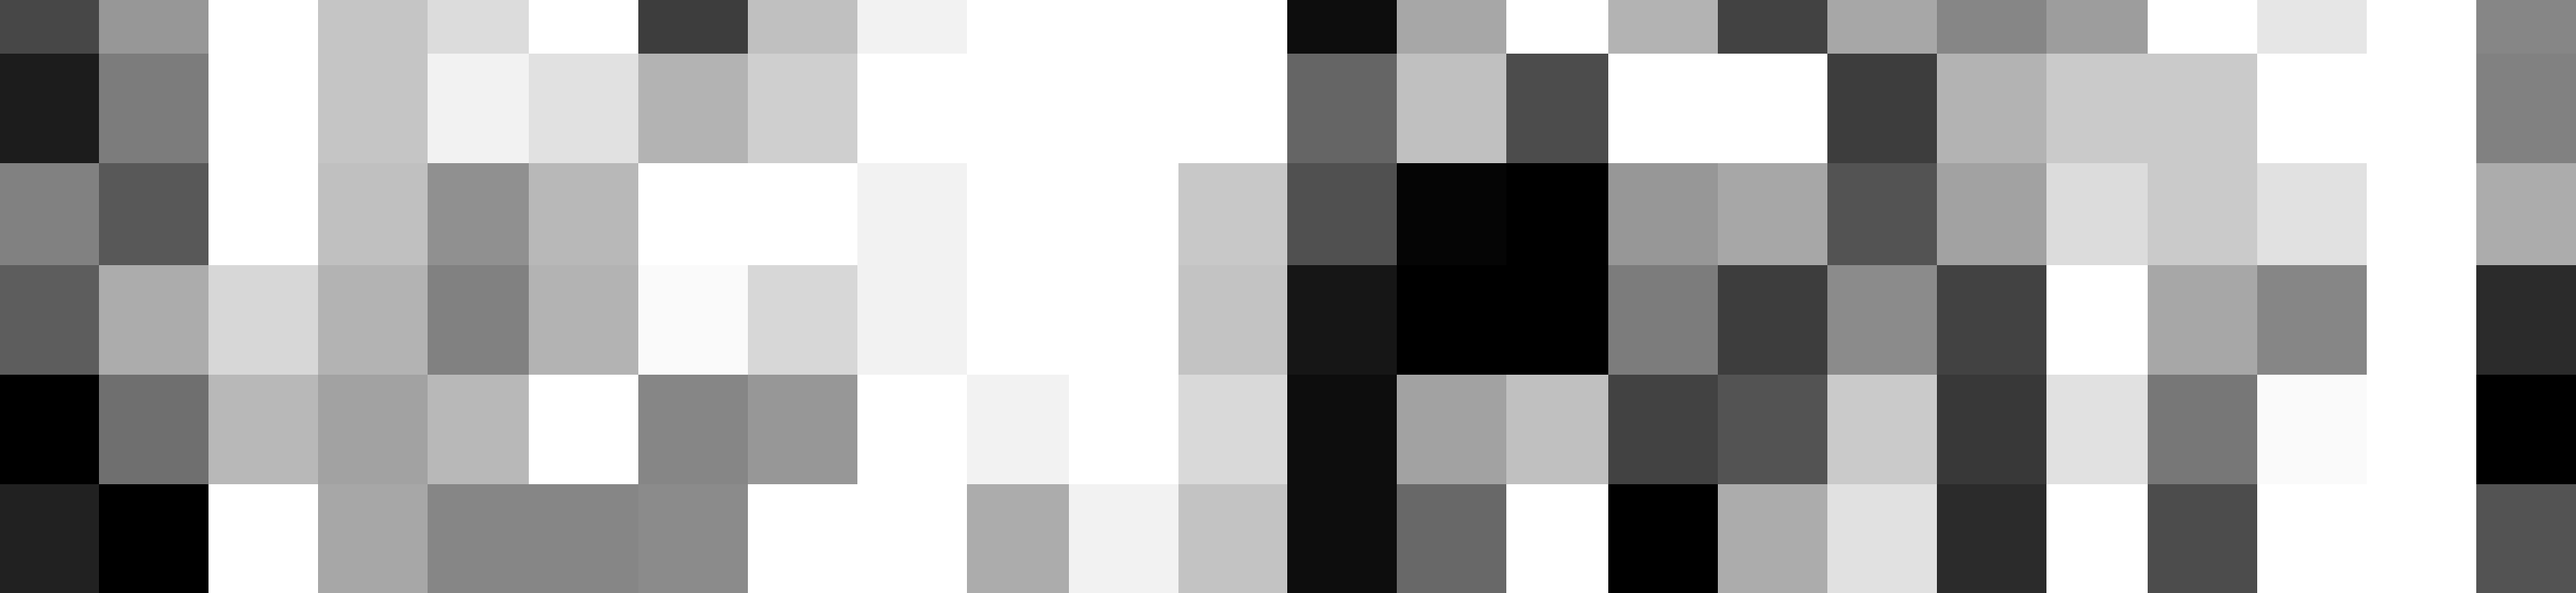
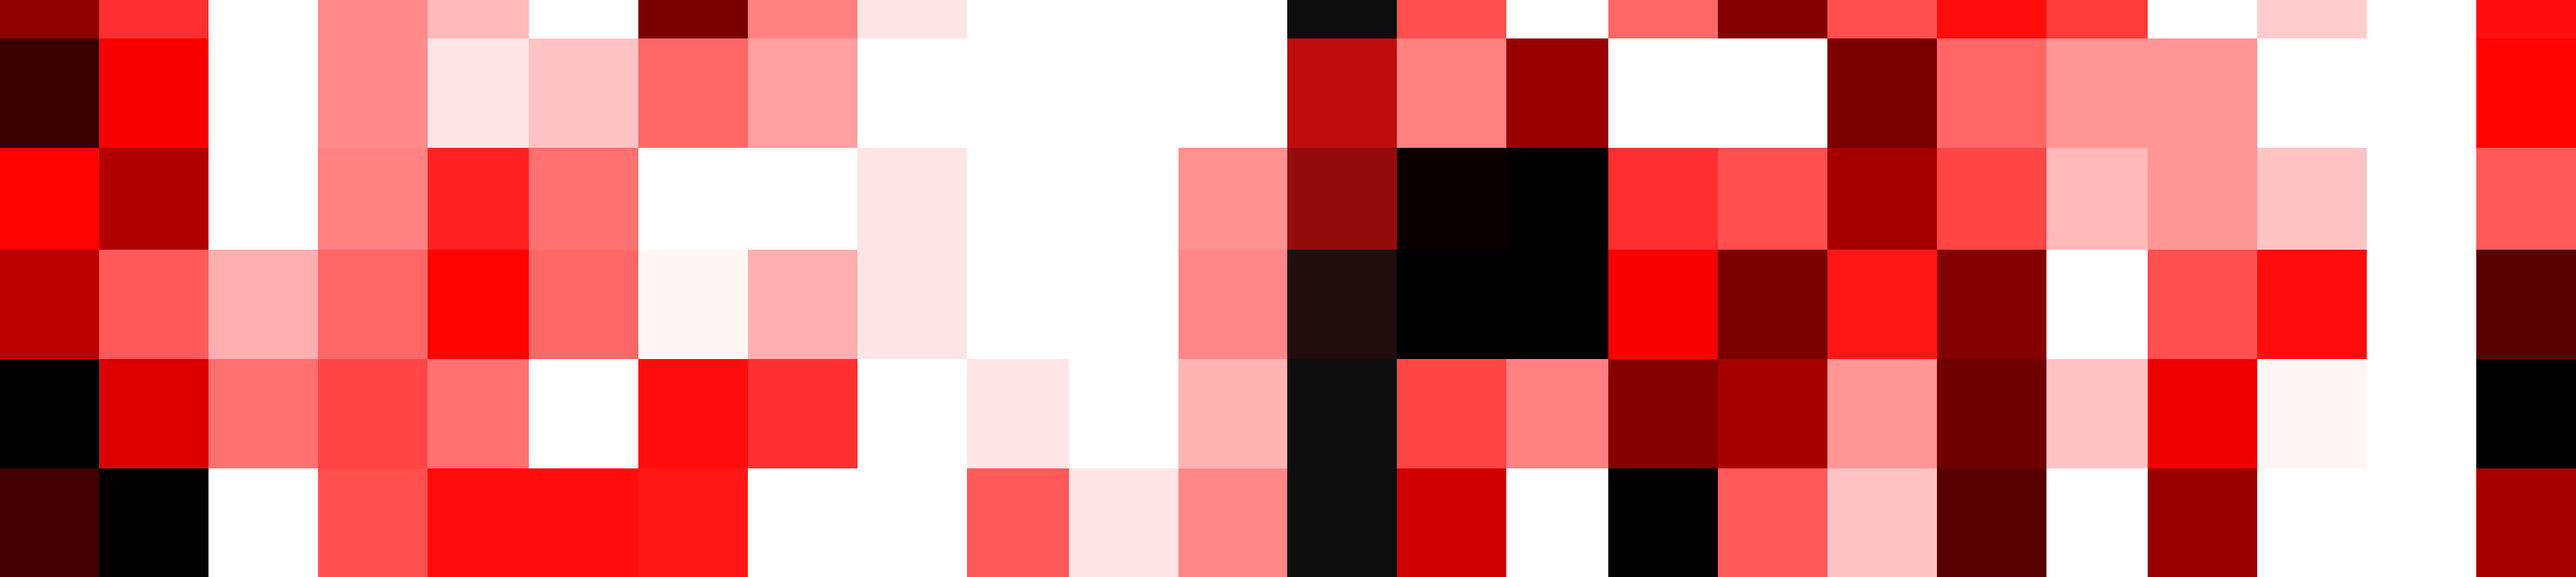
update

diff --git a/_includes/footer.html b/_includes/footer.html
@@ -2,7 +2,7 @@
   <div class="measure">
     <small>
       c. 2016 by <a href="http://www.thelivingnewyork.com/" target = "_blank">The Living</a>.<br>
-      <a href="/howto/" target = "_blank">How to post</a> | View it on <a href="https://github.com/the-living/the-living.github.io" target = "_blank">GitHub</a> | Theme based on <a href="https://github.com/johnotander/pixyll" target = "_blank">Pixyll</a>.
+      <a href="/howto/">How to post</a> | View it on <a href="https://github.com/the-living/the-living.github.io" target = "_blank">GitHub</a> | Theme based on <a href="https://github.com/johnotander/pixyll" target = "_blank">Pixyll</a>.
     </small>
   </div>
 </footer>

diff --git a/_sass/_base.scss b/_sass/_base.scss
@@ -35,10 +35,17 @@ div.img-container {
 }
 
 .img-container img { 
+    -webkit-filter: grayscale(100%);
+    filter: grayscale(100%);
     width: 100%;
     position: absolute;
     top: 50%;
     transform: translate(0,-50%);
+}
+
+img:hover { 
+    -webkit-filter: grayscale(0%);
+    filter: grayscale(0%);
 }
 
 em img {
